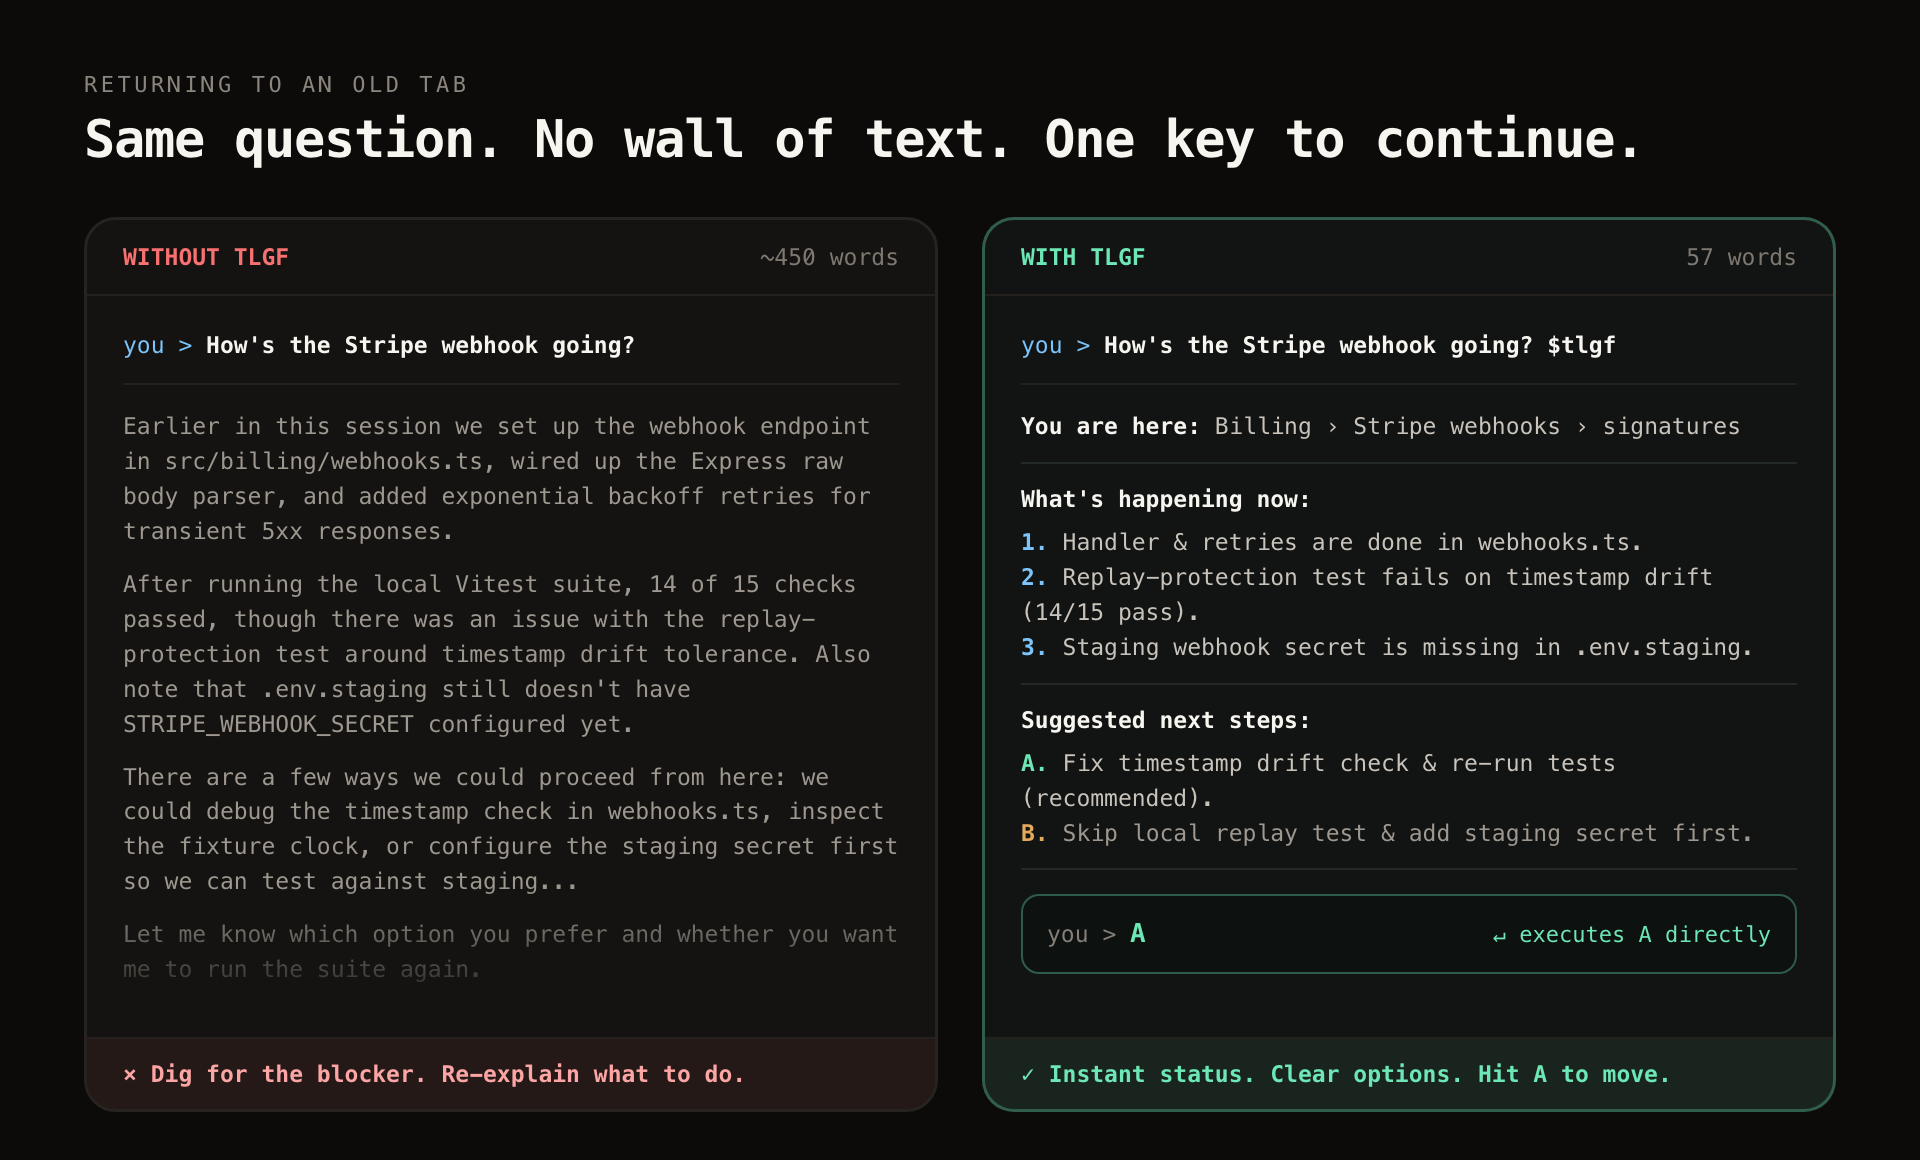
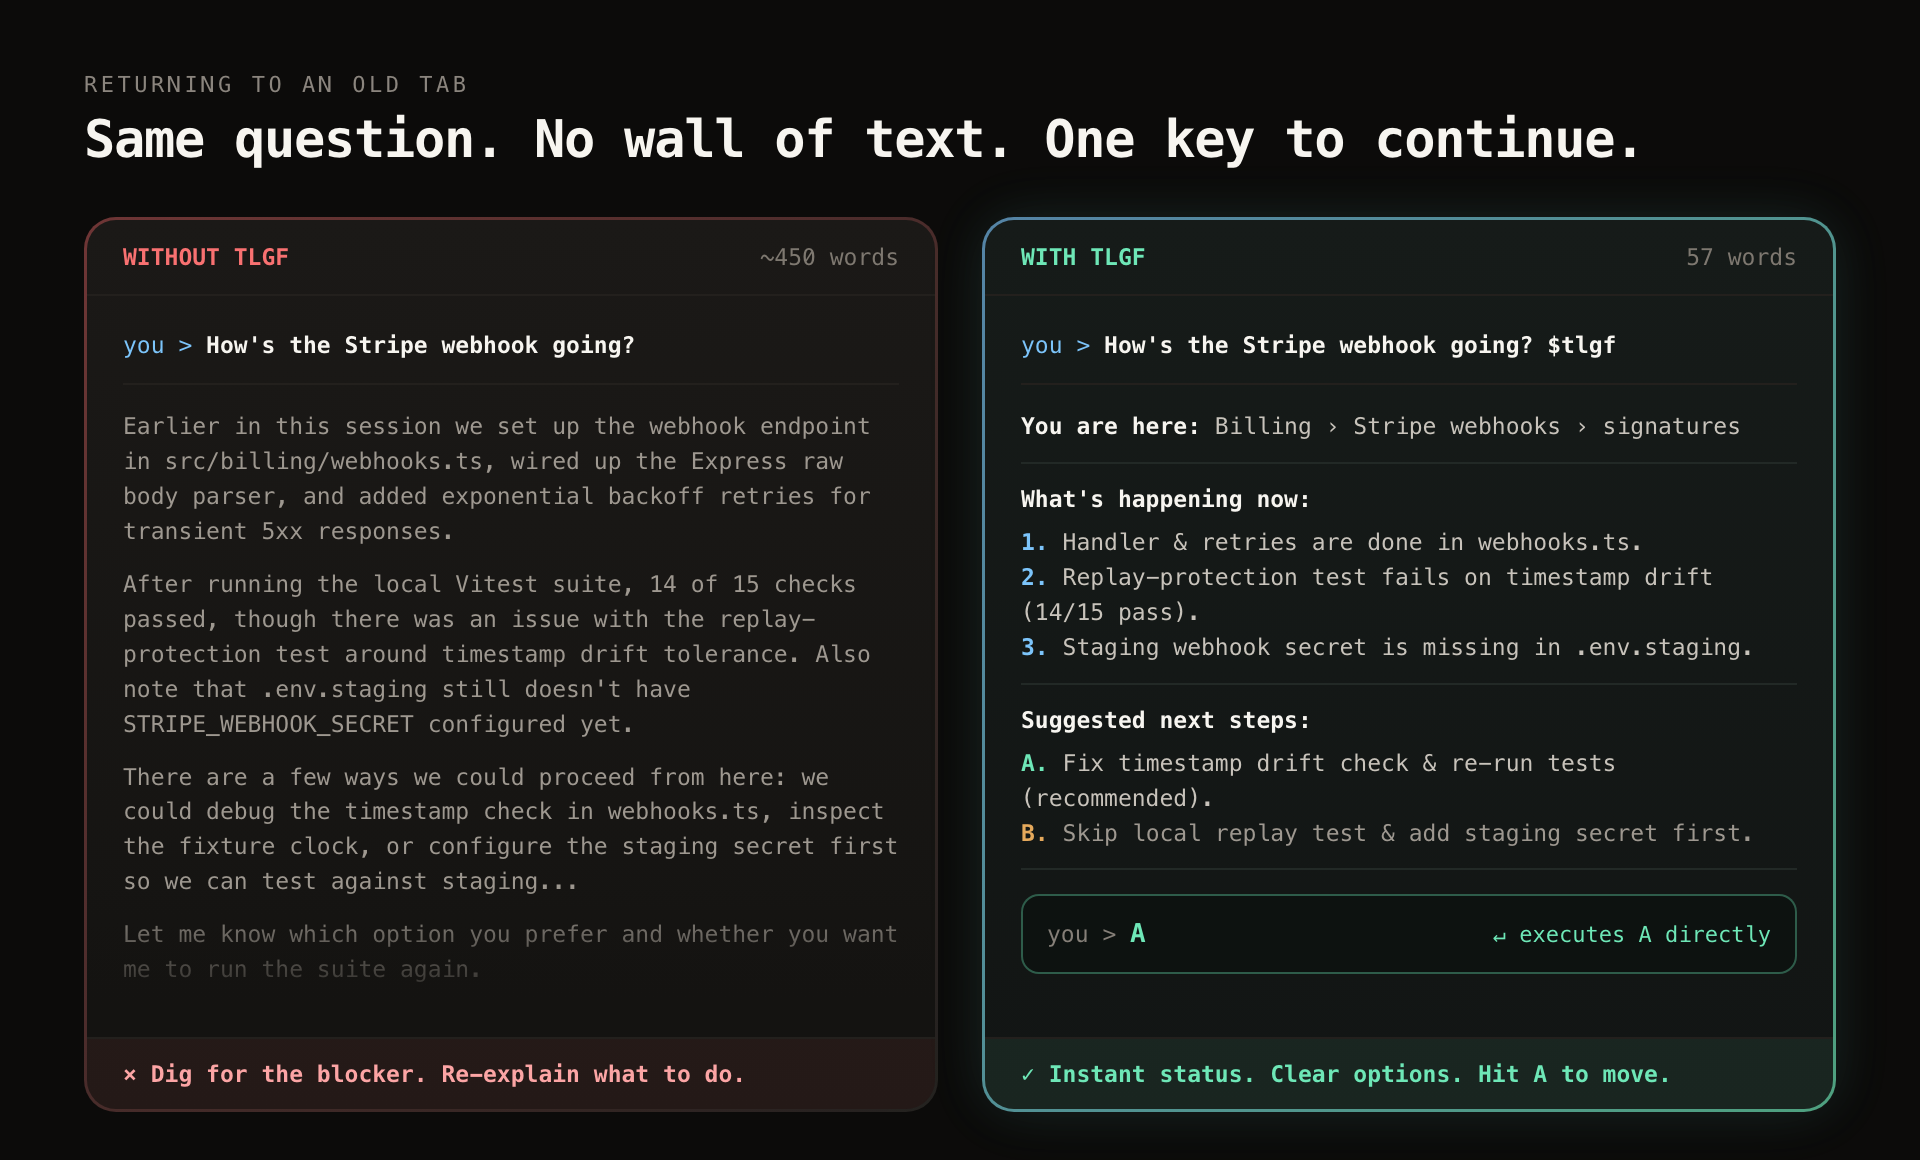
Apply unified blue-mint outline contrast across all visuals

diff --git a/assets/render.py b/assets/render.py
@@ -47,11 +47,13 @@ GAMEPAD_HTML = f"""<!doctype html>
   }}
   .left-panel {{ display: flex; flex-direction: column; }}
   .pad-card {{
-    background: linear-gradient(180deg, #171513 0%, #11100e 100%);
-    border: 1.5px solid #2b2723;
+    background:
+      linear-gradient(180deg, #211f1c 0%, #161412 100%) padding-box,
+      linear-gradient(125deg, rgba(124,196,250,0.68) 0%, rgba(160,155,148,0.28) 50%, rgba(110,231,183,0.68) 100%) border-box;
+    border: 1.5px solid transparent;
     border-radius: 22px;
     padding: 20px 22px 18px;
-    box-shadow: 0 22px 50px rgba(0,0,0,0.6);
+    box-shadow: 0 24px 55px rgba(0,0,0,0.75), 0 0 36px rgba(124,196,250,0.07), 0 0 36px rgba(110,231,183,0.07);
   }}
   .pad-labels {{
     display: grid;
@@ -159,7 +161,7 @@ GAMEPAD_HTML = f"""<!doctype html>
 
       <div class="pad-row">
         <svg width="138" height="138" viewBox="0 0 144 144">
-          <circle cx="72" cy="72" r="68" fill="#0d0c0b" stroke="#282420" stroke-width="1.5"/>
+          <circle cx="72" cy="72" r="68" fill="#0d0c0b" stroke="#3c3731" stroke-width="1.5"/>
           <path d="M51 16 H93 V51 H128 V93 H93 V128 H51 V93 H16 V51 H51 Z"
                 fill="#1d1b18" stroke="#34302b" stroke-width="1.5" stroke-linejoin="round"/>
           <circle cx="72" cy="72" r="9" fill="#11100e"/>
@@ -182,7 +184,7 @@ GAMEPAD_HTML = f"""<!doctype html>
         </div>
 
         <svg width="138" height="138" viewBox="0 0 144 144">
-          <circle cx="72" cy="72" r="68" fill="#0d0c0b" stroke="#282420" stroke-width="1.5"/>
+          <circle cx="72" cy="72" r="68" fill="#0d0c0b" stroke="#3c3731" stroke-width="1.5"/>
           <circle cx="72" cy="34" r="18" fill="#1e1c19" stroke="#453f39" stroke-width="1.4"/>
           <text x="72" y="39" text-anchor="middle" font-family="SF Mono, ui-monospace, monospace" font-size="14" font-weight="800" fill="#c4bdb5">D</text>
           <circle cx="34" cy="72" r="18" fill="#1e1c19" stroke="#453f39" stroke-width="1.4"/>
@@ -268,16 +270,21 @@ BEFOREAFTER_HTML = f"""<!doctype html>
     gap: 22px;
   }}
   .card {{
-    background: #141311;
+    background:
+      linear-gradient(180deg, #1b1917 0%, #141311 100%) padding-box,
+      linear-gradient(135deg, rgba(248,113,113,0.42) 0%, rgba(120,114,106,0.22) 100%) border-box;
     border-radius: 16px;
-    border: 1.5px solid #262320;
+    border: 1.5px solid transparent;
     display: flex;
     flex-direction: column;
     overflow: hidden;
   }}
   .card.after {{
-    border-color: rgba(110, 231, 183, 0.35);
-    background: #121413;
+    background:
+      linear-gradient(180deg, #161b19 0%, #121514 100%) padding-box,
+      linear-gradient(125deg, rgba(124,196,250,0.65) 0%, rgba(110,231,183,0.68) 100%) border-box;
+    border: 1.5px solid transparent;
+    box-shadow: 0 0 32px rgba(110,231,183,0.08), 0 0 28px rgba(124,196,250,0.06);
   }}
   .card-head {{
     display: flex;
@@ -431,10 +438,19 @@ CHEATSHEET_HTML = f"""<!doctype html>
     margin-bottom: 18px;
   }}
   .box {{
-    background: #141311;
-    border: 1.5px solid #262320;
+    background:
+      linear-gradient(180deg, #1d1b18 0%, #141311 100%) padding-box,
+      linear-gradient(135deg, rgba(124,196,250,0.58) 0%, rgba(120,114,106,0.22) 100%) border-box;
+    border: 1.5px solid transparent;
     border-radius: 15px;
     padding: 16px 20px 14px;
+    box-shadow: 0 0 26px rgba(124,196,250,0.05);
+  }}
+  .box.act {{
+    background:
+      linear-gradient(180deg, #181c1a 0%, #131514 100%) padding-box,
+      linear-gradient(135deg, rgba(110,231,183,0.58) 0%, rgba(120,114,106,0.22) 100%) border-box;
+    box-shadow: 0 0 26px rgba(110,231,183,0.06);
   }}
   .box-head {{
     display: flex;
@@ -530,7 +546,7 @@ CHEATSHEET_HTML = f"""<!doctype html>
     </div>
 
     <!-- Right: Buttons act -->
-    <div class="box">
+    <div class="box act">
       <div class="box-head green">
         <span>BUTTONS &middot; A&ndash;D</span>
         <span class="dim">move forward in 1 key</span>
@@ -608,12 +624,23 @@ BENCHMARK_GATES_HTML = f"""<!doctype html>
     -webkit-background-clip: text;
     -webkit-text-fill-color: transparent;
   }}
-  .rows {{ display: flex; flex-direction: column; gap: 22px; }}
+  .rows {{
+    display: flex;
+    flex-direction: column;
+    gap: 20px;
+    background:
+      linear-gradient(180deg, #191816 0%, #131210 100%) padding-box,
+      linear-gradient(125deg, rgba(124,196,250,0.58) 0%, rgba(160,155,148,0.22) 50%, rgba(110,231,183,0.58) 100%) border-box;
+    border: 1.5px solid transparent;
+    border-radius: 16px;
+    padding: 20px 24px;
+    box-shadow: 0 0 28px rgba(124,196,250,0.05), 0 0 28px rgba(110,231,183,0.05);
+  }}
   .row {{
     display: grid;
-    grid-template-columns: 235px 1fr;
+    grid-template-columns: 220px 1fr;
     align-items: center;
-    gap: 20px;
+    gap: 18px;
   }}
   .r-label {{ font-size: 14px; font-weight: 600; color: #f0ece4; }}
   .r-sub {{ font-size: 11px; color: #7d776f; margin-top: 2px; }}
@@ -777,13 +804,22 @@ BENCHMARK_IMPACT_HTML = f"""<!doctype html>
   .title .green {{ color: #6ee7b7; }}
   .two-col {{ display: grid; grid-template-columns: 1fr 1fr; gap: 20px; flex: 1; }}
   .panel {{
-    background: #141311;
-    border: 1.5px solid #262320;
+    background:
+      linear-gradient(180deg, #181c1a 0%, #131514 100%) padding-box,
+      linear-gradient(135deg, rgba(110,231,183,0.55) 0%, rgba(124,196,250,0.28) 100%) border-box;
+    border: 1.5px solid transparent;
     border-radius: 16px;
     padding: 20px 22px;
     display: flex;
     flex-direction: column;
     justify-content: space-between;
+    box-shadow: 0 0 26px rgba(110,231,183,0.05);
+  }}
+  .panel.blue-panel {{
+    background:
+      linear-gradient(180deg, #171a1d 0%, #131416 100%) padding-box,
+      linear-gradient(135deg, rgba(124,196,250,0.55) 0%, rgba(110,231,183,0.28) 100%) border-box;
+    box-shadow: 0 0 26px rgba(124,196,250,0.06);
   }}
   .p-head {{
     font-size: 11px;
@@ -873,7 +909,7 @@ BENCHMARK_IMPACT_HTML = f"""<!doctype html>
       </div>
     </div>
 
-    <div class="panel">
+    <div class="panel blue-panel">
       <div>
         <div class="p-head">LESS READING ON CLAUDE CODE</div>
         <div class="big-stat">
@@ -966,7 +1002,7 @@ TARGETS = [
     ("gamepad", GAMEPAD_HTML, 960, 445, 2),
     ("beforeafter", BEFOREAFTER_HTML, 960, 580, 2),
     ("cheatsheet", CHEATSHEET_HTML, 960, 490, 2),
-    ("benchmark-gates", BENCHMARK_GATES_HTML, 960, 515, 2),
+    ("benchmark-gates", BENCHMARK_GATES_HTML, 960, 550, 2),
     ("benchmark-impact", BENCHMARK_IMPACT_HTML, 960, 470, 2),
     ("social-preview", SOCIAL_HTML, 1280, 640, 1),
 ]
